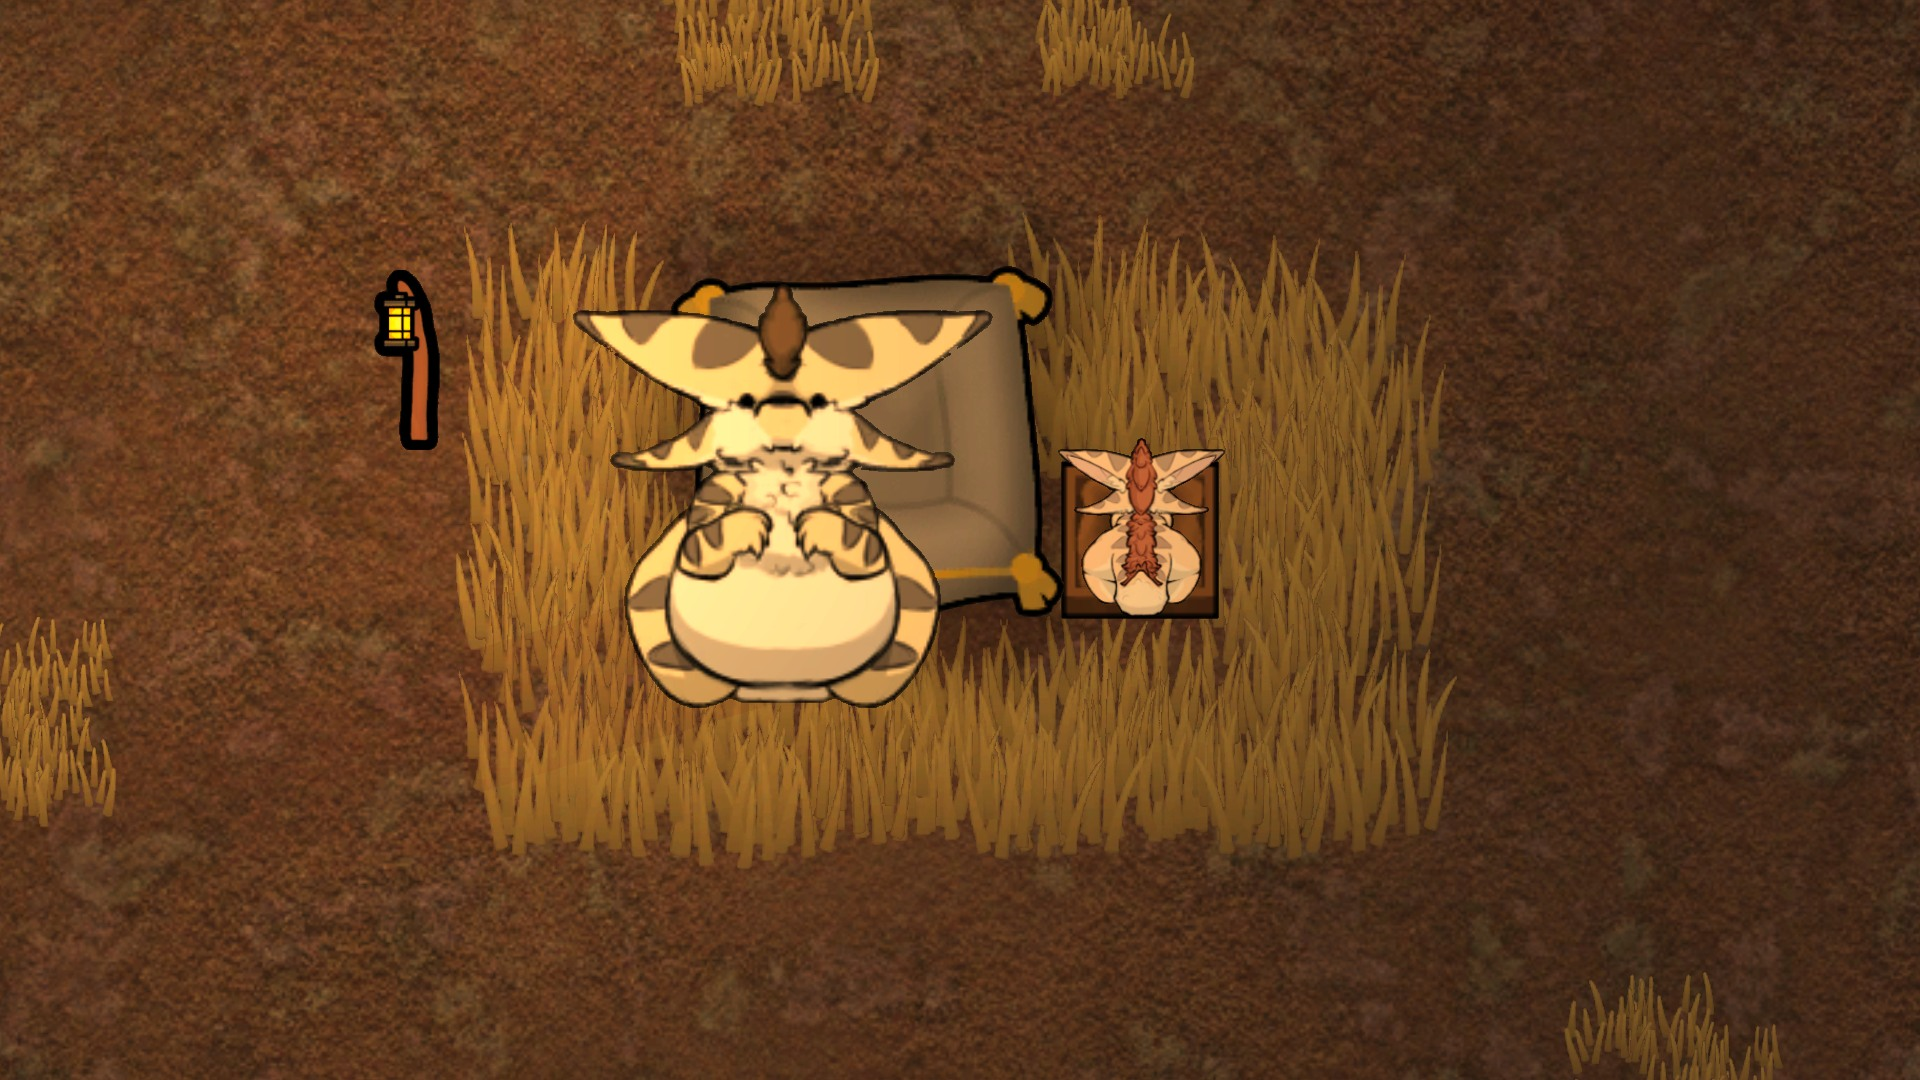
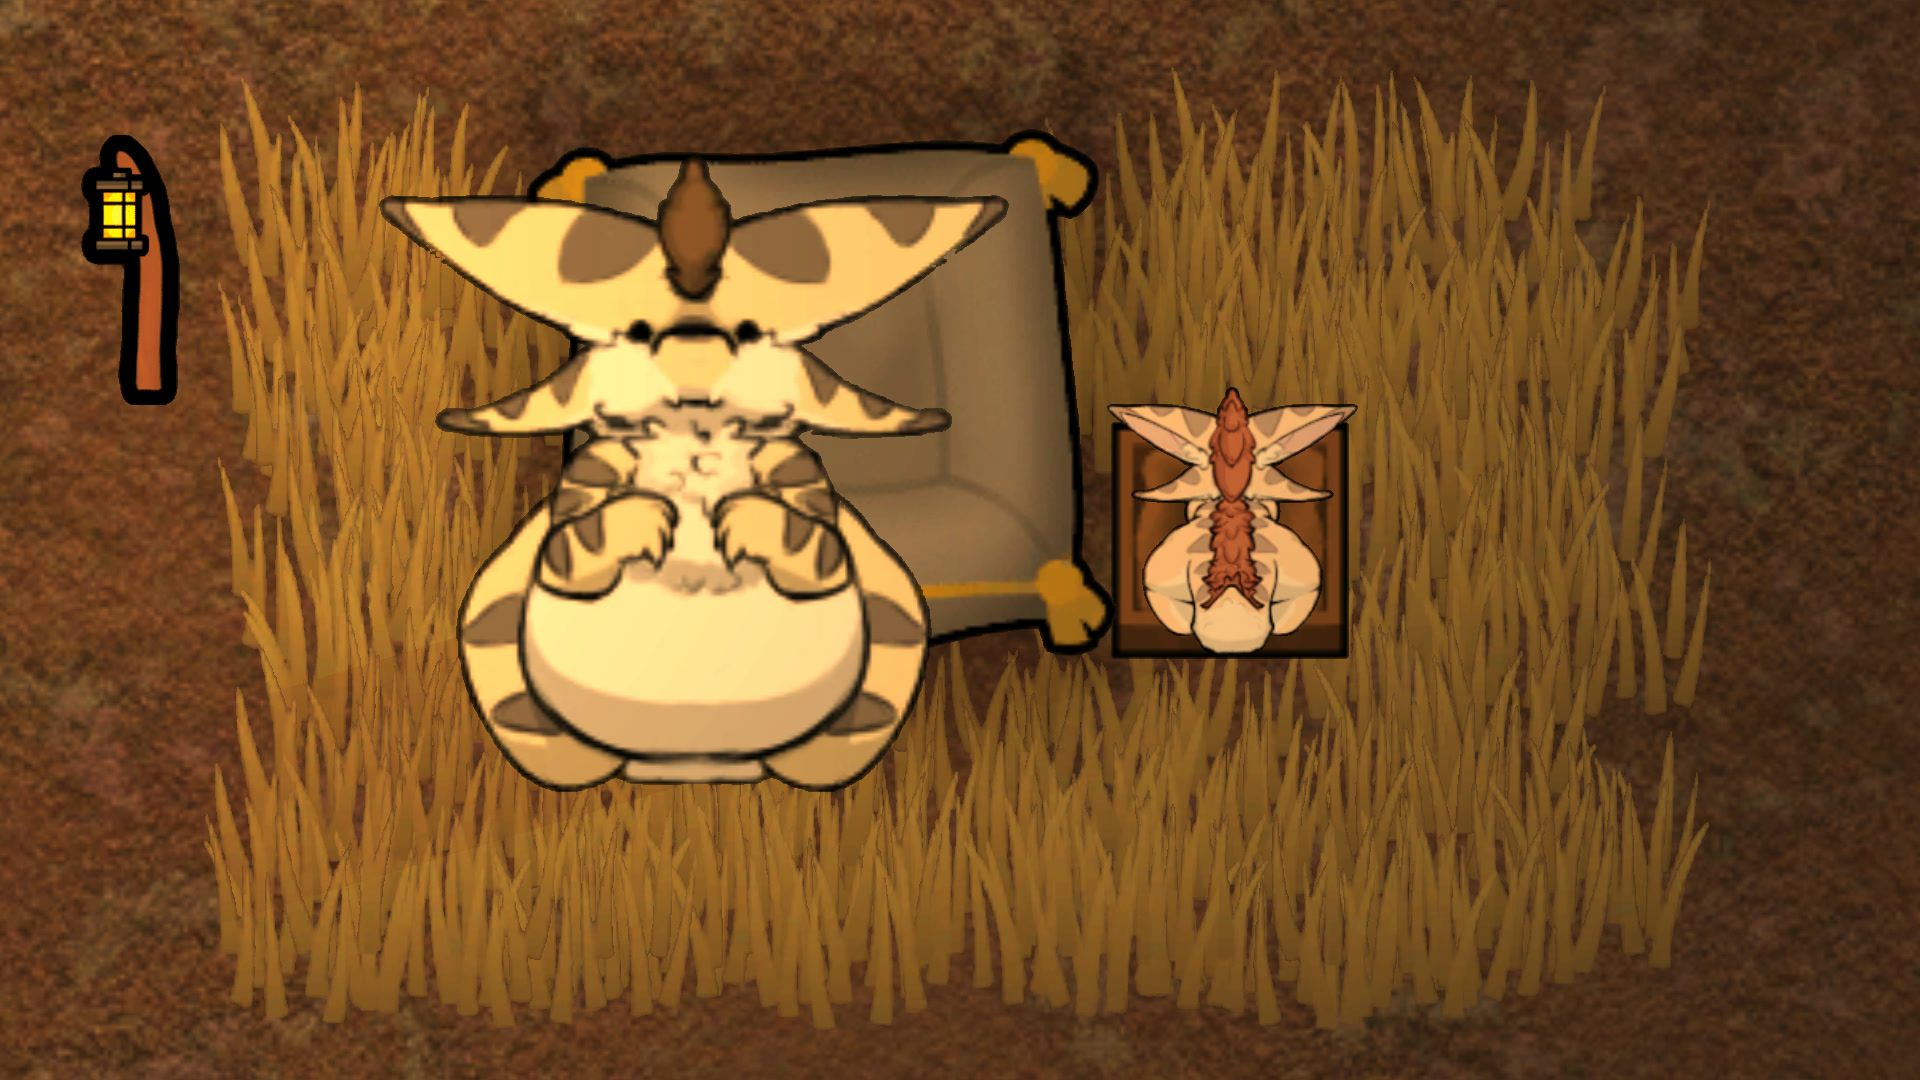
Gallery v2 image 5 redone (ticket e848): closer frame, the kit reads as a kit

diff --git a/STATUS.md b/STATUS.md
@@ -57,7 +57,7 @@ Reserves, not blockers: `Art/ModIcon.ico` and `Art/Preview.ico` are tracked by g
 
 **Gallery, second series, 2026-10-11 (HEAD `e358d09`).** The six images after `0-preview` opened one by one by the session, director's verdict before the owner's: `1-asleep` kept (the teshi
 curled on a bed, readable, murky pond), `2-portrait` kept (the strongest, close and clear), `3-the-parents` kept (hearts, lantern, daylilies), `4-the-nesting-box` kept (warm, the egg in its box),
-`5-the-hatching` kept with a reserve (the kit is small beside its box, it reads as a miniature teshi), `6-the-infirmary-health-tab` kept (the Health tab names the cut claw and the ADS2 bionic
+`5-the-hatching` redone 2026-10-11 (ticket e848, root size 1.9: the kit now fills its box tile and reads as a kit beside the mother; the first version was too far), `6-the-infirmary-health-tab` kept (the Health tab names the cut claw and the ADS2 bionic
 arm, which shows the 1.0.1 texts; the interface is busy, left as the game draws it). `7-` was renumbered `6-` (indexes 0 to 6 contiguous, AUDIT 9.b); the meat scene of 18h30 was played and not kept.
 Sizes 254 to 450 KB each, 2.3 MB together; `0-preview.png` identical to `Mod/About/Preview.png` (cmp). Order to argue: the most demonstrative first after the preview.
 

diff --git a/docs/runs/2026-10-11.md b/docs/runs/2026-10-11.md
@@ -3,3 +3,4 @@
 2026-10-11 health-en  ticket 82b1, label 04c2119, `-DepMap wsl-deps.sans-facultatifs.map`  06-labels-en::health tab, English  1 discovered, 1 passed  exitReason passed  the health tab names each claw and ear on its own side  Tests/Pickle/Evidence/2026-10-11-health-en
 2026-10-11 health-fr  ticket 72f9, label 04c2119, same map  07-labels-fr::health tab, French  1 discovered, 1 passed  exitReason passed  same scenario in French  Tests/Pickle/Evidence/2026-10-11-health-fr
 2026-10-11 evidence prune  no run  deleted 2026-10-08-06-labels-en, 2026-10-08-06-labels-en-1 and 2026-10-08-07-labels-fr-french (sanctuary pass, replaced by the four runs above); report.html and messages.ndjson removed from the four new folders
+2026-10-11 gallery-v2-image5  ticket e848, label 2df1548, sanctuary pass, English, 12-workshop-captures-v2::18h00  1 played, 1 passed  exitReason passed  image 5 redone at root size 1.9: the kit fills its box tile beside the mother and reads as a kit; replaces Art/Gallery/5-the-hatching.jpg (442 KB)  Tests/Pickle/Evidence/2026-10-11-gallery-v2-image5
